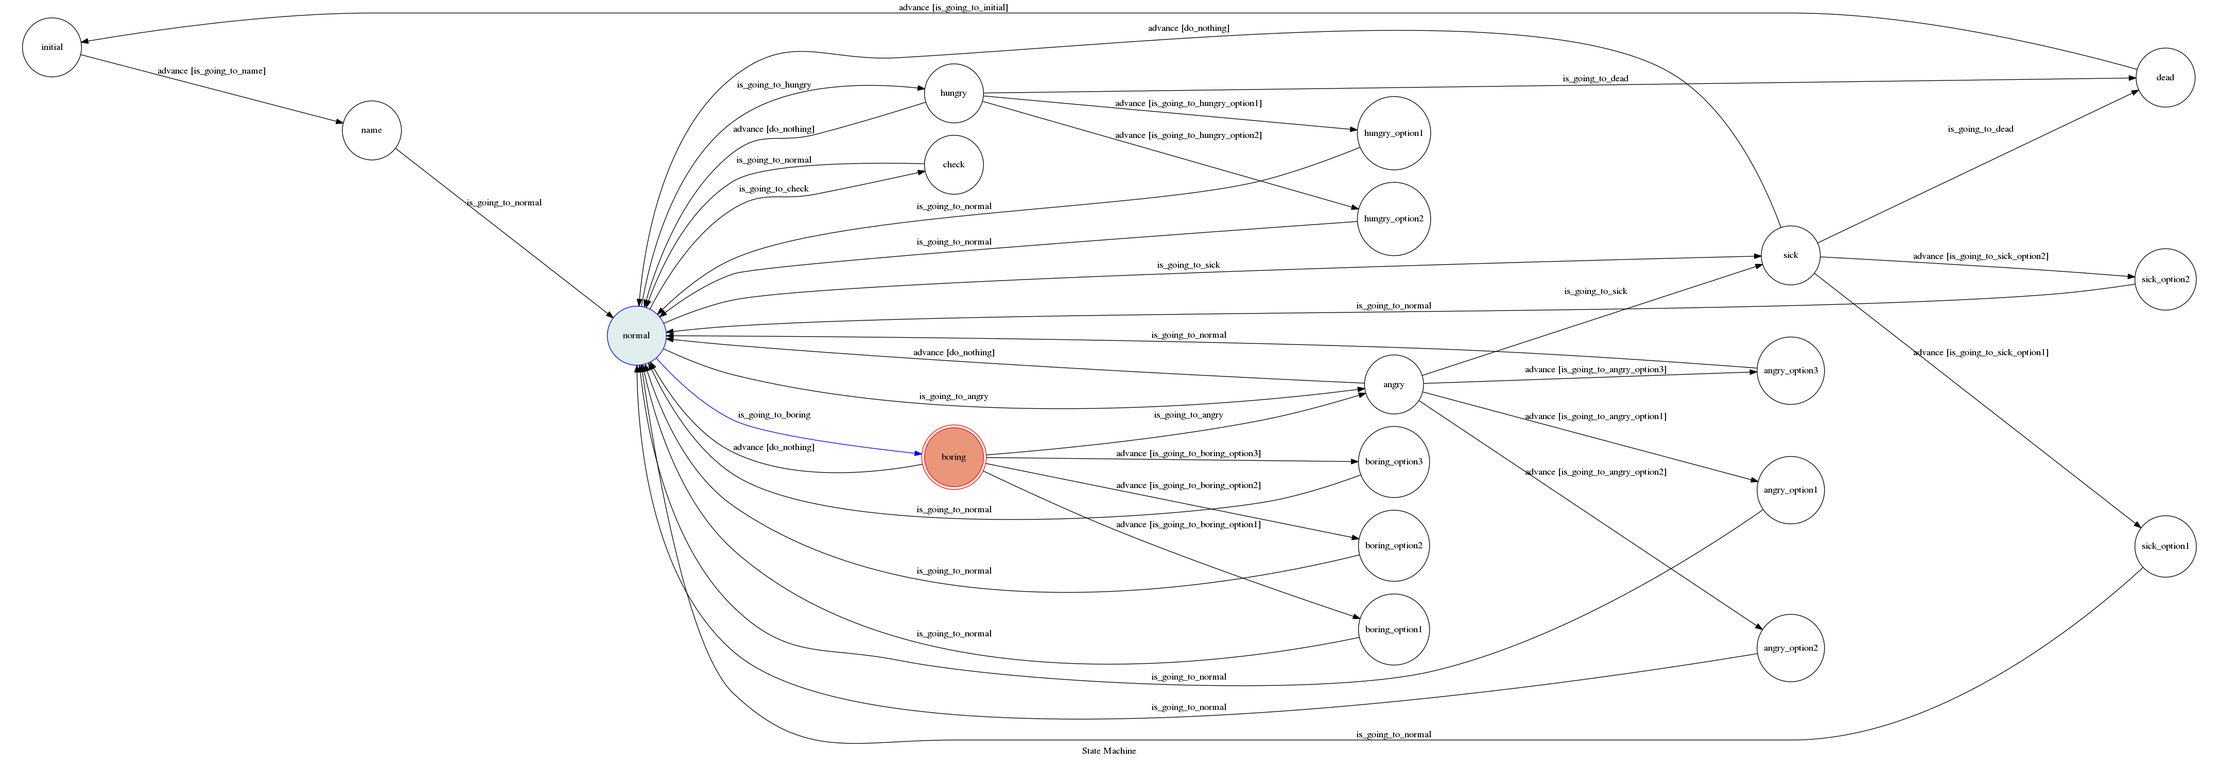
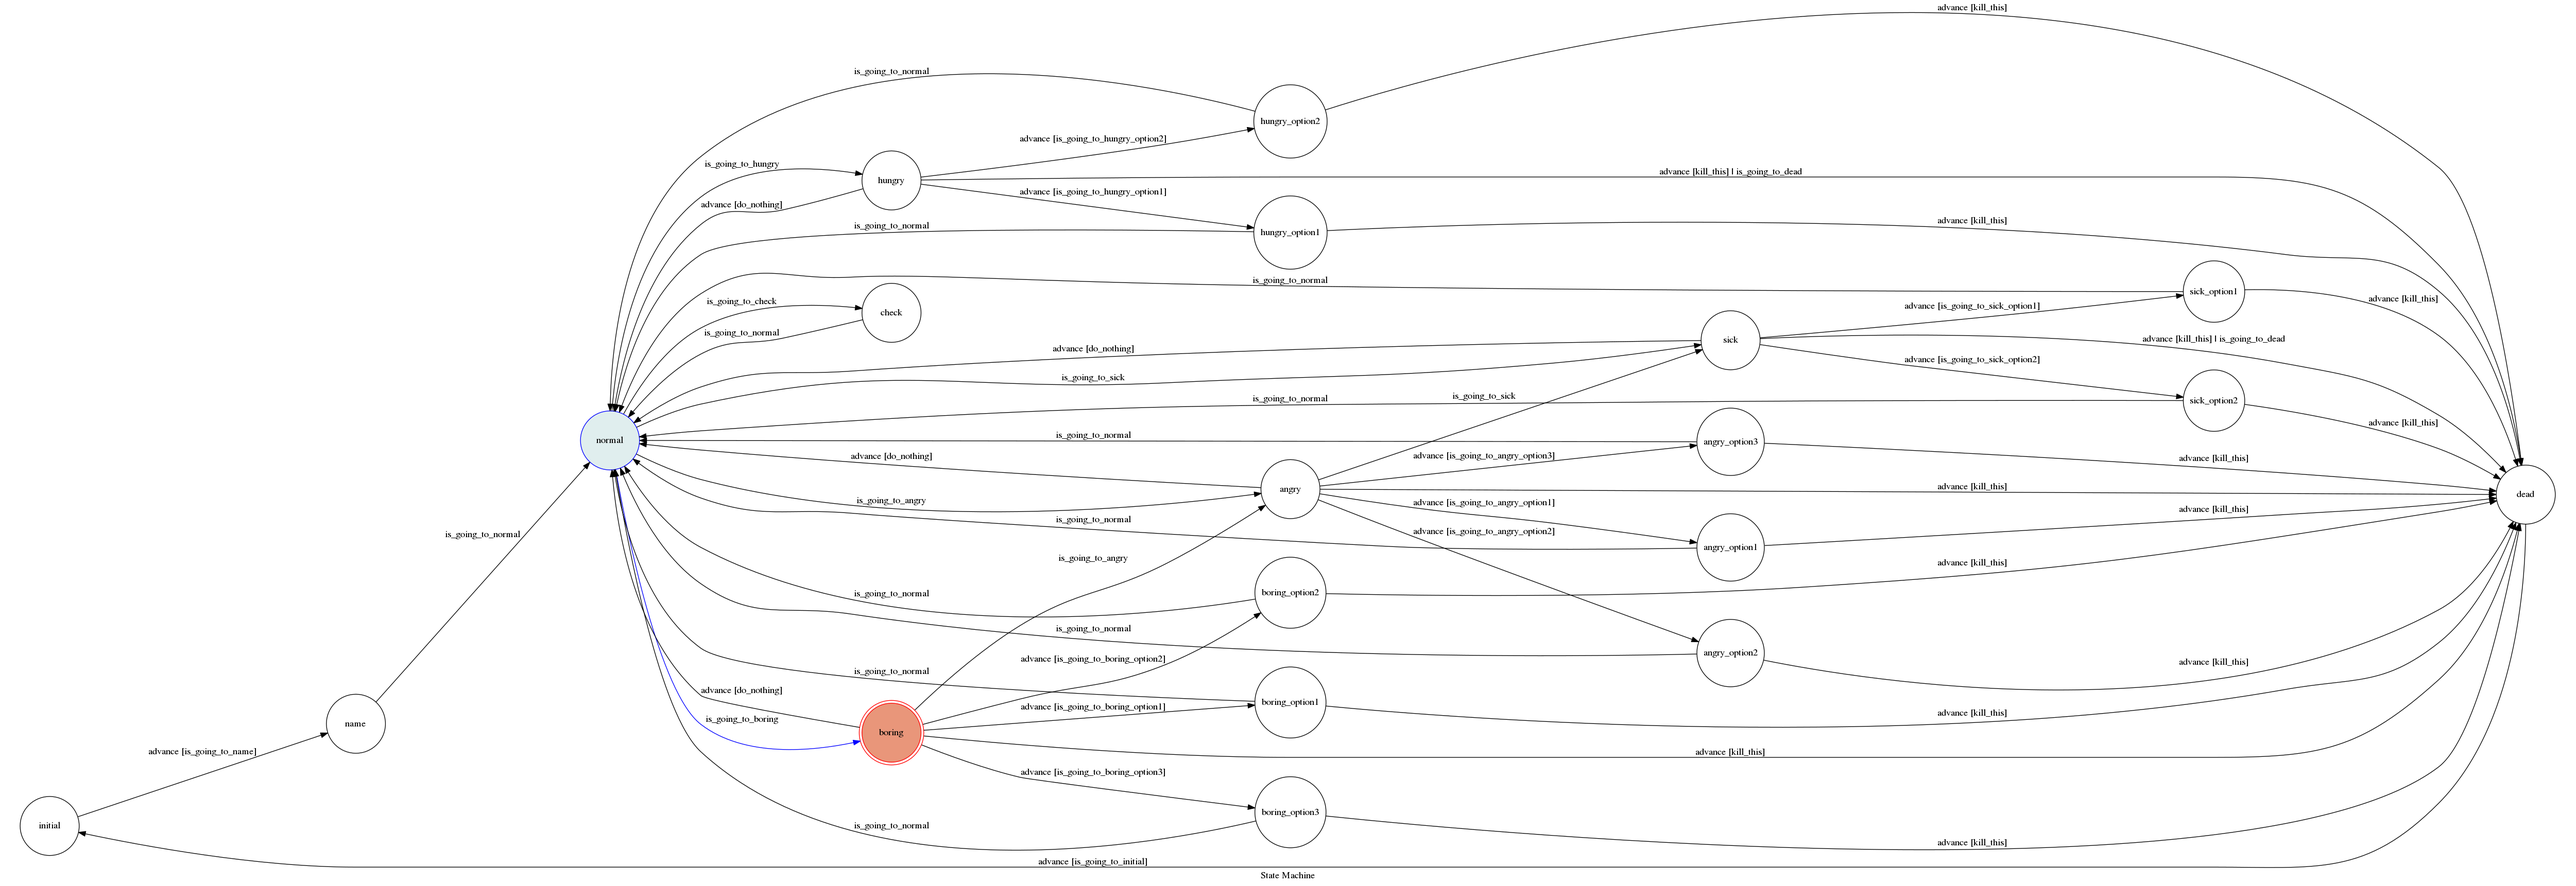
new fsm.png

diff --git a/fsm.py b/fsm.py
@@ -60,7 +60,7 @@ class TocMachine(GraphMachine):
         counter = 0      
         update.message.reply_text(' Life Level : ' + str(life_level))
         while(counter<5):            
-            time.sleep(30)
+            time.sleep(5)
 
             money = money + 30
             sick_level = sick_level + 3
@@ -89,7 +89,8 @@ class TocMachine(GraphMachine):
             
             counter = counter+1
         
-        self.is_going_to_check(update)
+        if(counter == 5):
+            self.is_going_to_check(update)
                             
 
     def on_exit_normal(self, update):
@@ -331,8 +332,8 @@ class TocMachine(GraphMachine):
         print("dead")
 
     def on_enter_dead(self, update):        
-        update.message.reply_text("I'm dead. Wait for 10 minutes and initialize 'initial'.")
-        time.sleep(600)
+        update.message.reply_text("I'm dead. Wait for 1 minutes and initialize 'initial'.")
+        time.sleep(60)
 
     def on_exit_dead(self, update):
         update.message.reply_text('You can start again.')
@@ -341,3 +342,7 @@ class TocMachine(GraphMachine):
     def do_nothing(self, update):
         text = update.message.text        
         return text.lower() == 'do nothing'
+
+    def kill_this(self, update):
+        text = update.message.text        
+        return text.lower() == 'kill'

diff --git a/app.py b/app.py
@@ -8,7 +8,7 @@ from fsm import TocMachine
 
 
 API_TOKEN = '480513885:AAEwQboNf9fJUuE13pBQLl4URAj5F3QCT00'
-WEBHOOK_URL = 'https://83a55c17.ngrok.io/hook'
+WEBHOOK_URL = 'https://945473ad.ngrok.io/hook'
 
 app = Flask(__name__)
 bot = telegram.Bot(token=API_TOKEN)
@@ -125,6 +125,28 @@ machine = TocMachine(
                         'boring'],
             'dest': 'normal',
             'conditions': 'do_nothing'
+        },
+        {
+            'trigger': 'advance',
+            'source' : ['hungry',
+                        'hungry_option1',
+                        'hungry_option2',        
+
+                        'sick',
+                        'sick_option1',
+                        'sick_option2',        
+
+                        'boring',
+                        'boring_option1',
+                        'boring_option2',
+                        'boring_option3',        
+
+                        'angry',
+                        'angry_option1',
+                        'angry_option2',
+                        'angry_option3',],
+            'dest': 'dead',
+            'conditions': 'kill_this'
         },
 
         {
